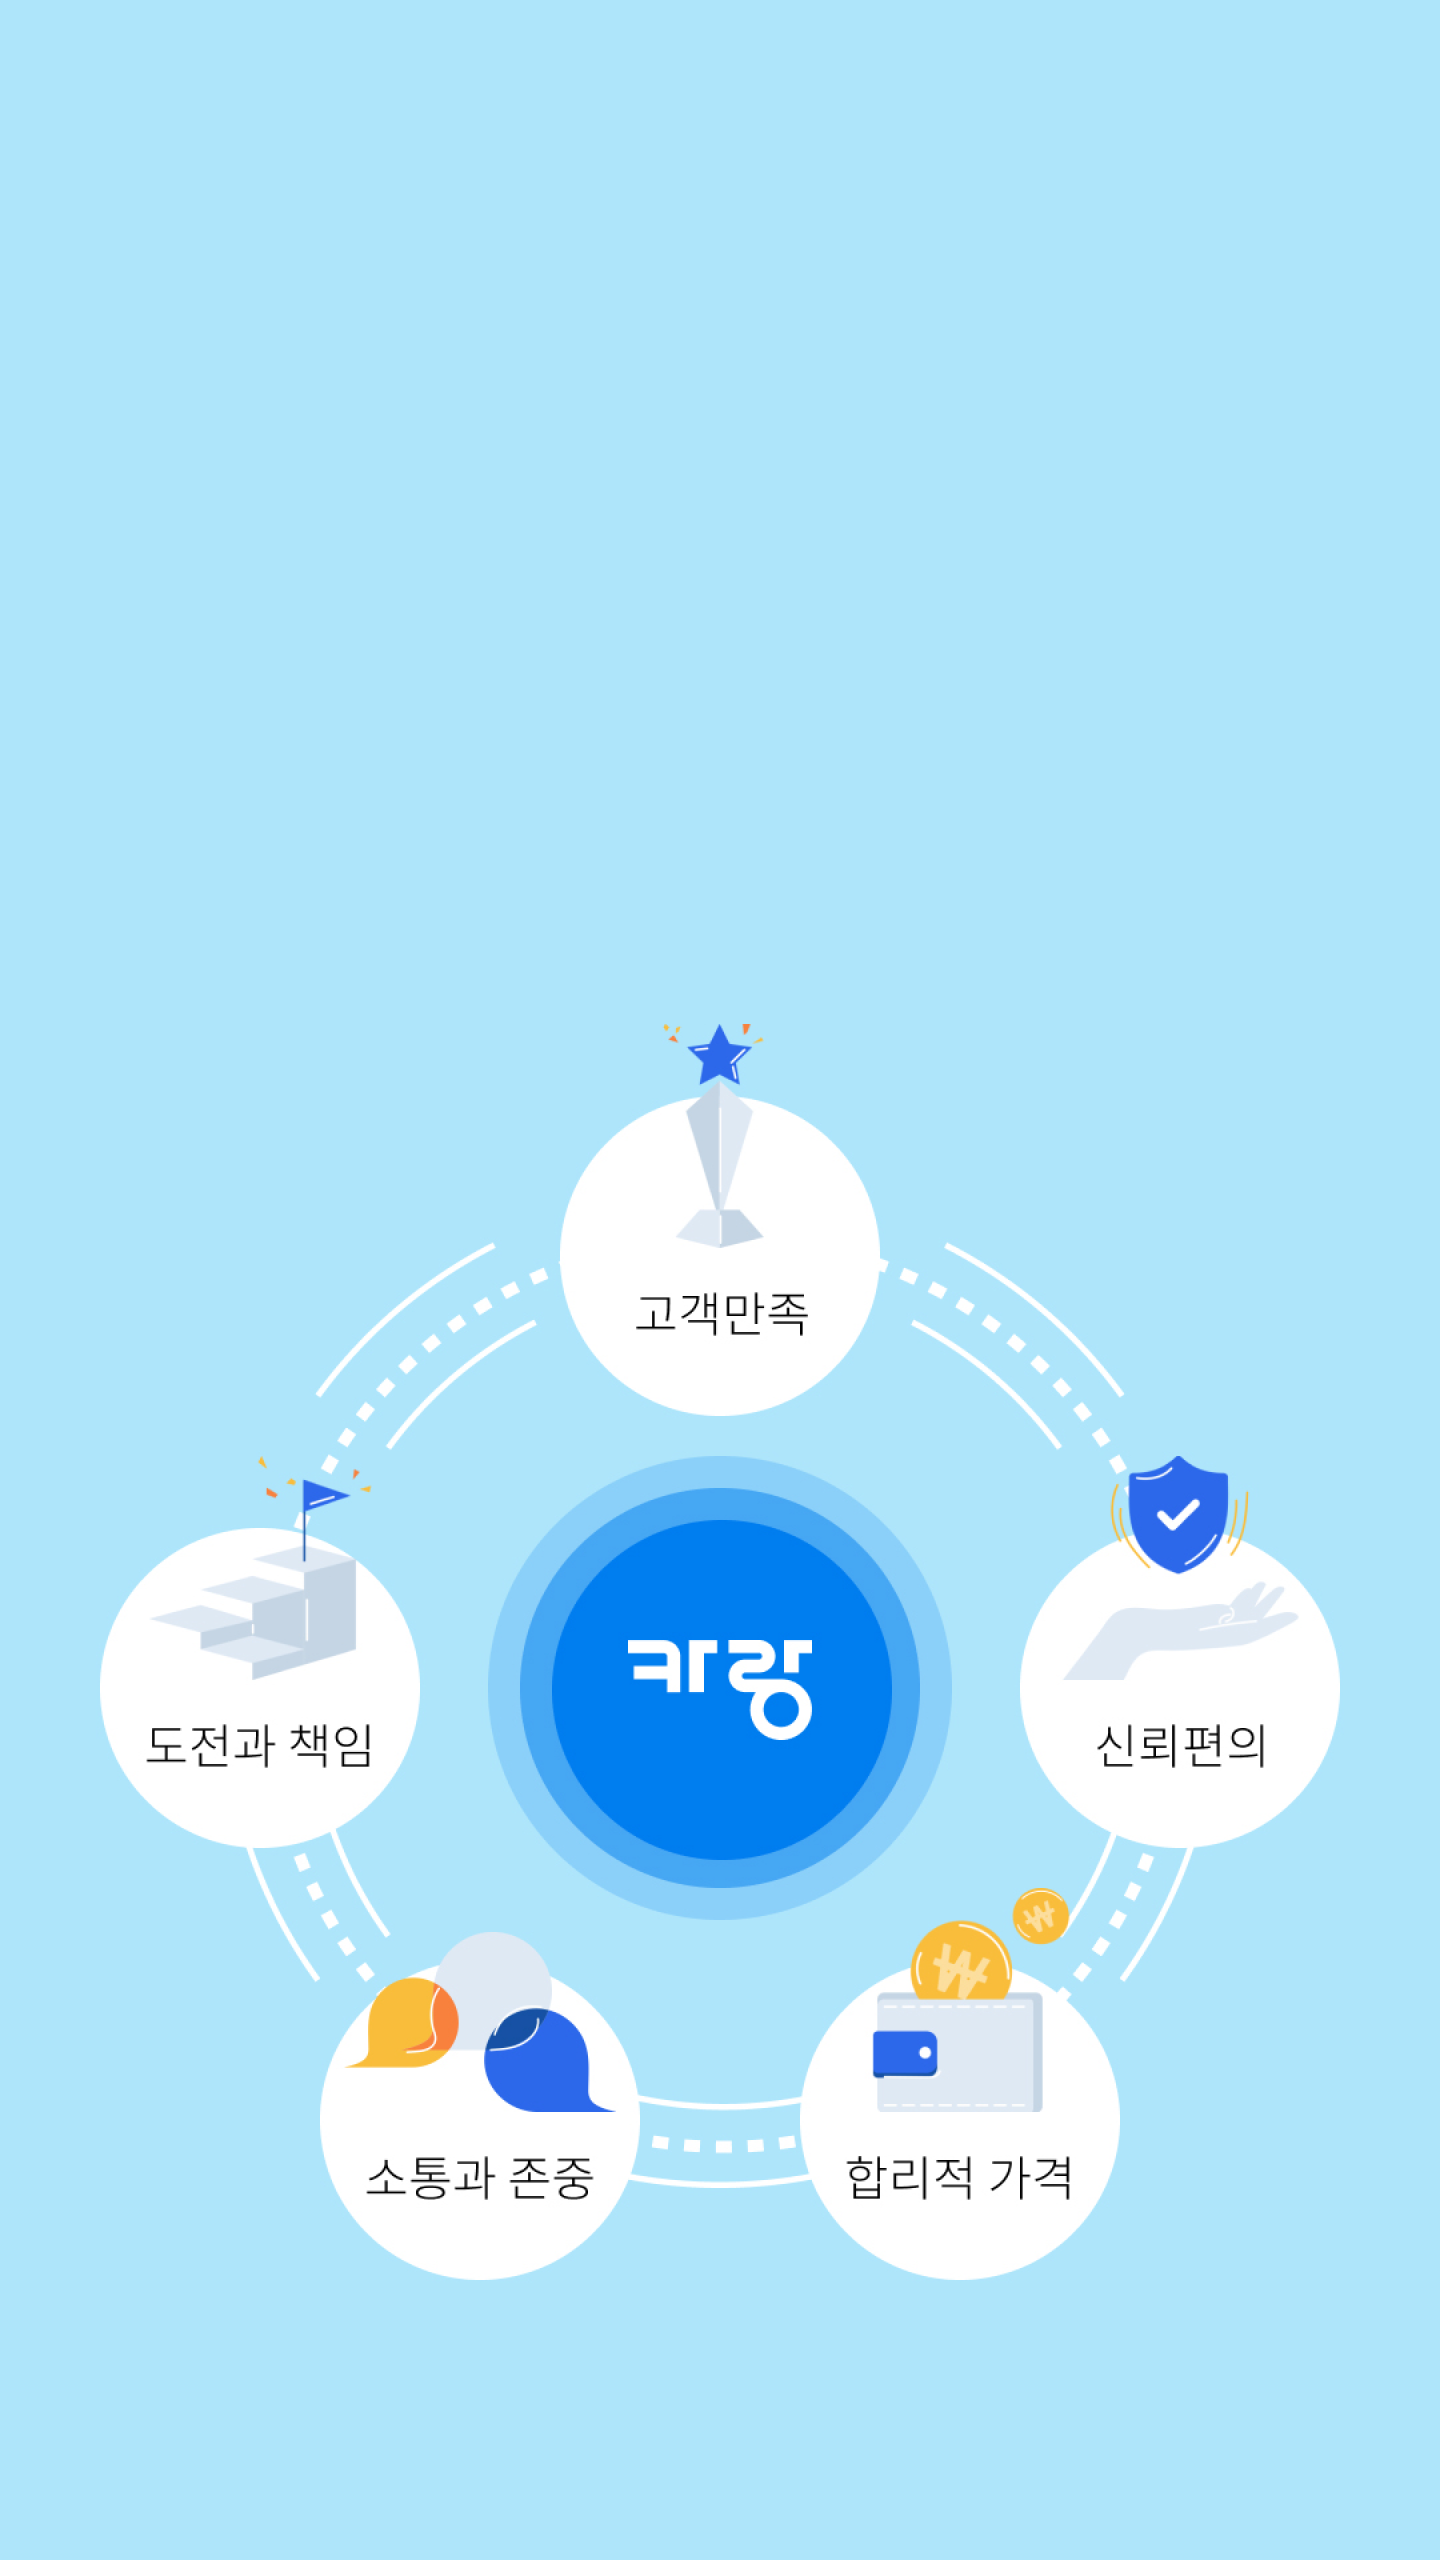
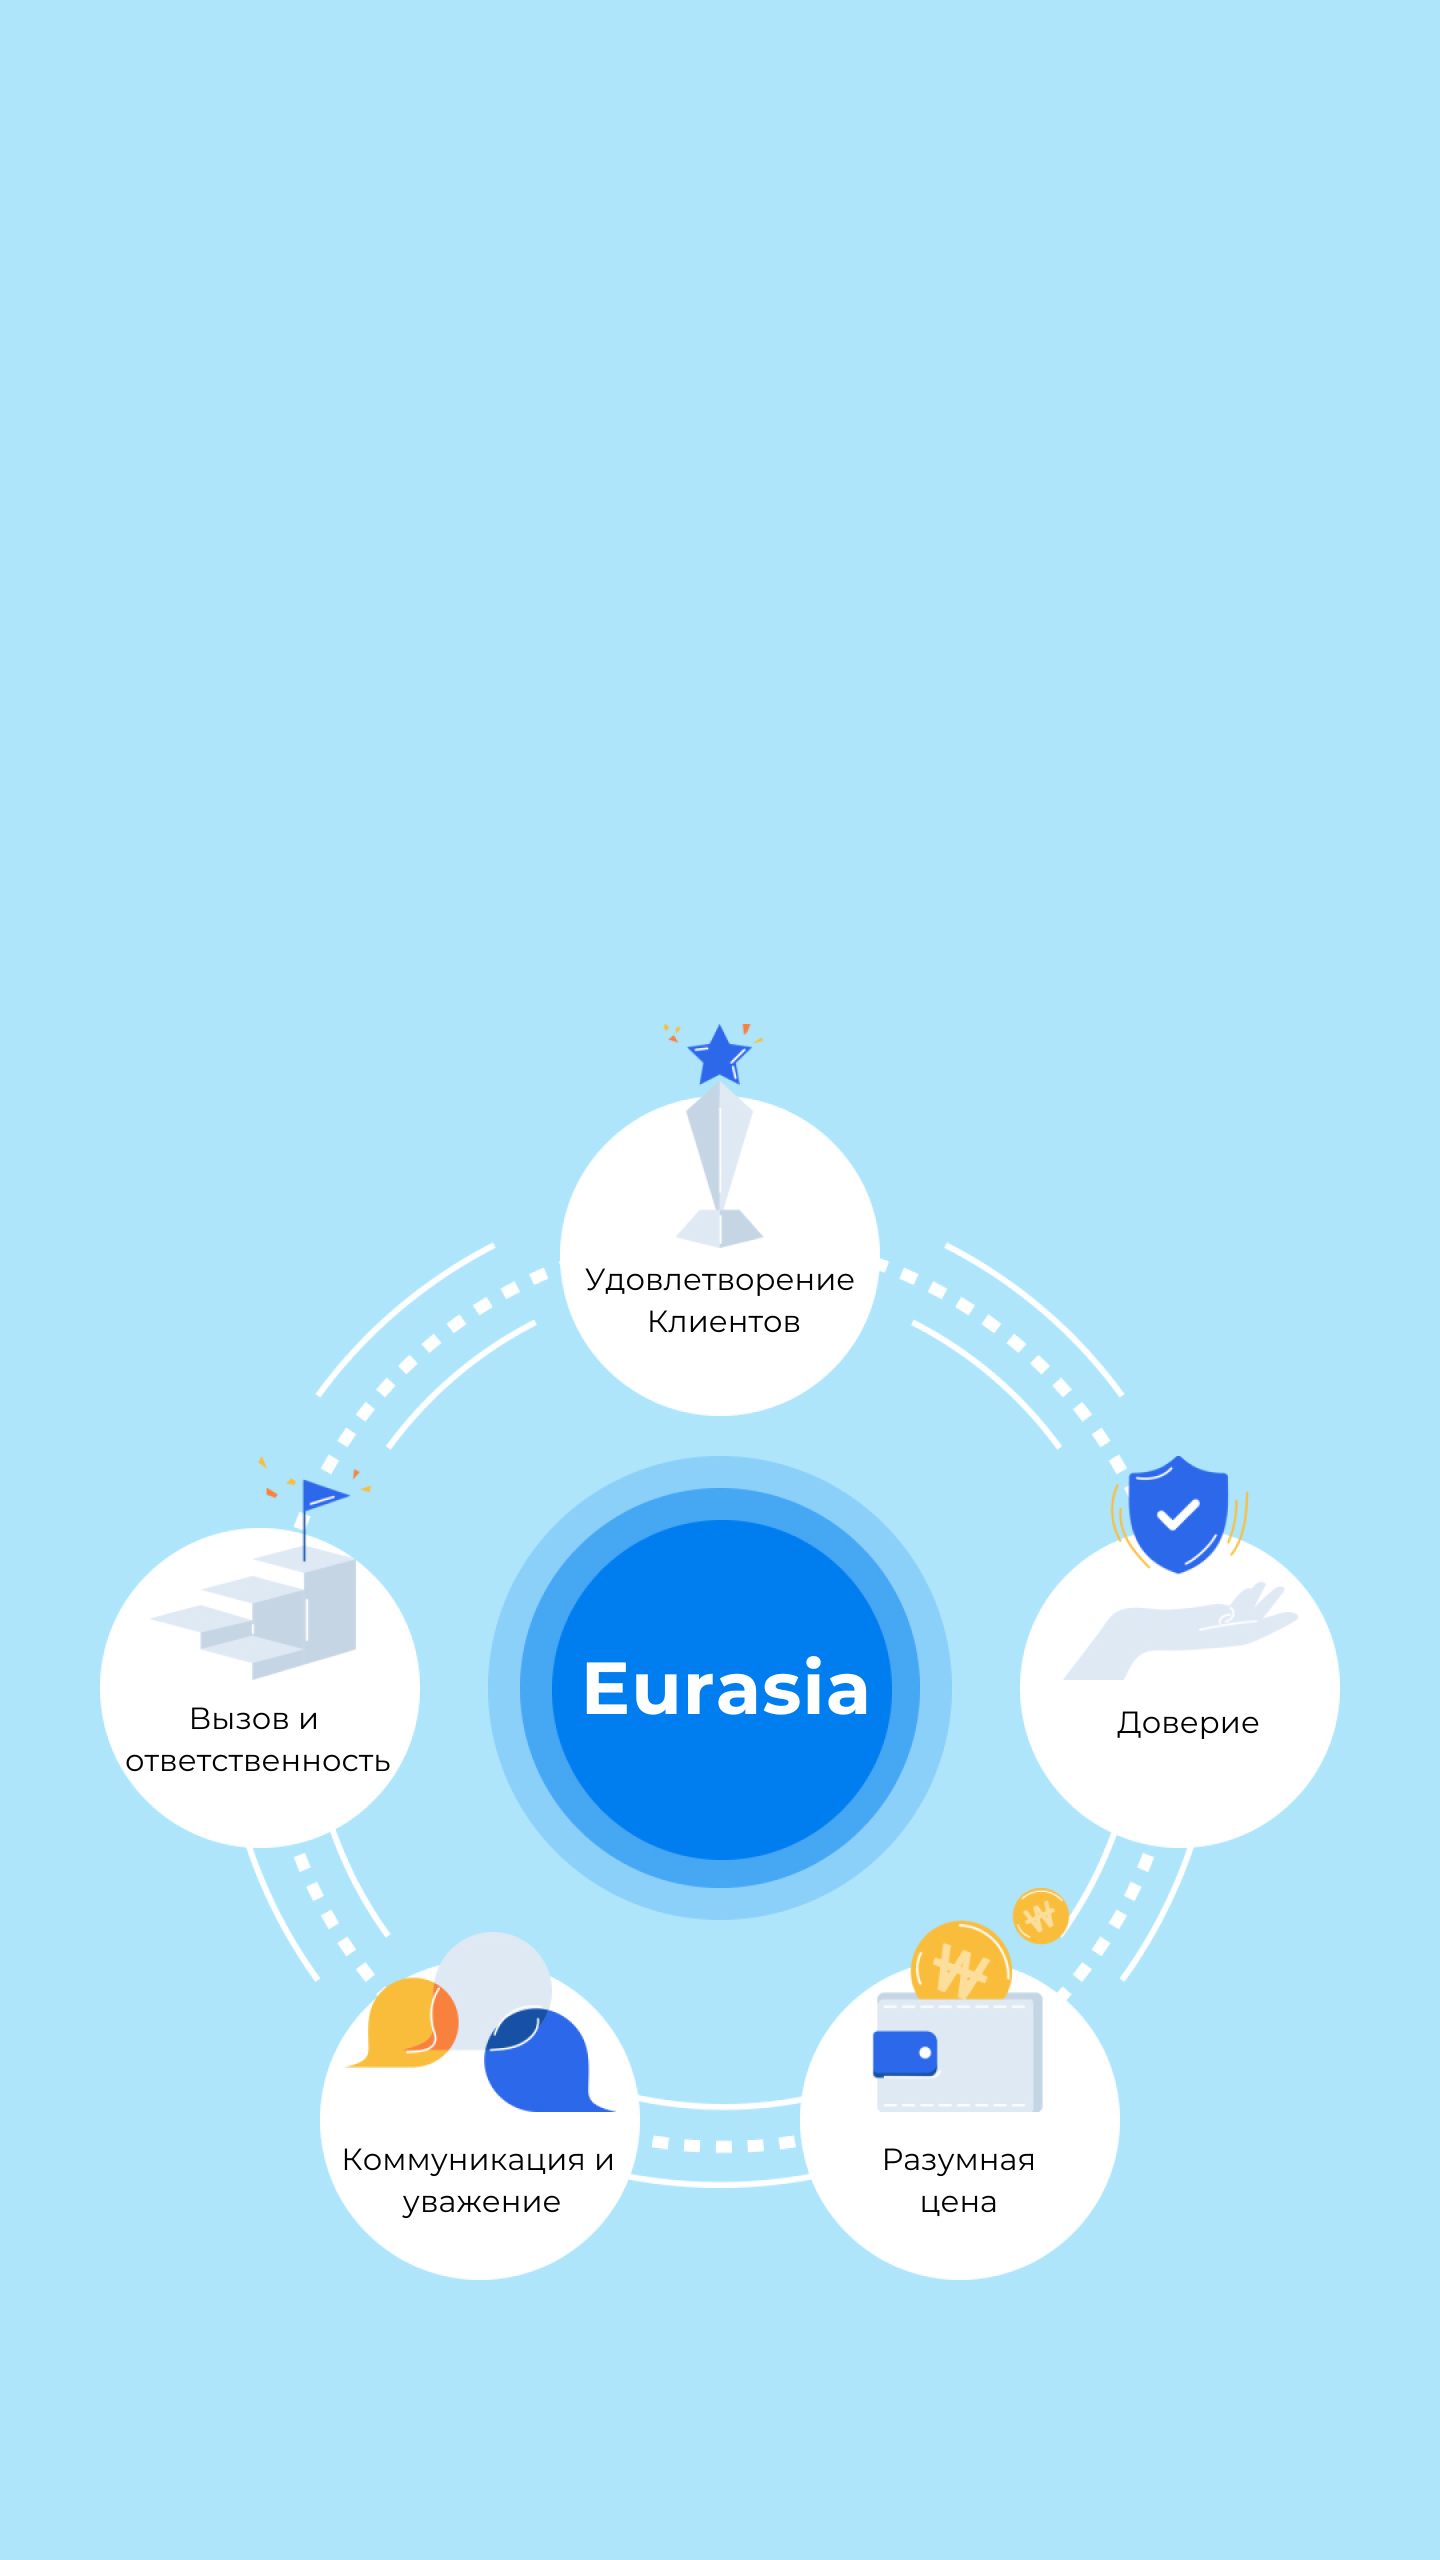
adapt_3/3

diff --git a/static/home.html b/static/home.html
@@ -13,16 +13,16 @@
     <div class="container">
         <div class="head">
           <div class="head_img">
-            <a href="http://91.147.92.210:1515/static/index.html">
+            <a href="http://91.147.92.210:1515/">
               <img src="../static/images/main_logo.png">
             </a>
           </div>
           <div class="nav-container">
               <div class="b1">
-                <a href="#section_1">Профиль компании</a>
+                <a href="" onclick="scrollToElement('section_1')">Профиль компании</a>
               </div> 
               <div class="b2"> 
-                <a href="#section_2">Услуги</a>
+                <a href="" onclick="scrollToElement('section_2'); return false">Услуги</a>
               </div> 
               <div class="b3">
                 <a href="https://www.carsuri.co.kr/contact?tab=runoil" target="_blank">Запрос на партнерство</a>
@@ -37,8 +37,8 @@
             <span></span>
           </label>
           <ul class="menu__box">
-              <li><a class="menu__item" target="_blank" href="#section_1">Профиль компании</a></li>
-              <li><a class="menu__item" target="_blank" href="#section_2">Услуги</a></li>
+              <li><a class="menu__item" href="" onclick="scrollToElement('section_1')">Профиль компании</a></li>
+              <li><a class="menu__item" href="" onclick="scrollToElement('section_2')">Услуги</a></li>
               <li><a class="menu__item" target="_blank" href="https://www.carsuri.co.kr/contact?tab=runoil">Запрос на партнерство</a></li>  
           </ul>
         </div>
@@ -59,7 +59,7 @@
               Начало нового управления автомобилем
               <h2 class="zhir">
                 <b>
-                  Управление транспортными средствами &lsquo;<b>Carang</b>&rsquo; в моих руках
+                  Управление транспортными средствами &lsquo;<b>Eurasia</b>&rsquo; в моих руках
                 </b>
               </h2>
             </h2>
@@ -84,7 +84,7 @@
           Дорога офиса в Сеуле
         </p>
         <div class="map">
-          <iframe src="https://www.google.com/maps/embed?pb=!1m18!1m12!1m3!1d2504.666689205991!2d71.39915247779213!3d51.11460957172667!2m3!1f0!2f0!3f0!3m2!1i1024!2i768!4f13.1!3m3!1m2!1s0x4245857b43be34df%3A0xbce83846dc96ed9b!2z0JbQmiBTcG9ydCBDaXR5!5e0!3m2!1skk!2skz!4v1711406630745!5m2!1skk!2skz" width="600" height="450" style="border:0;" allowfullscreen="" loading="lazy" referrerpolicy="no-referrer-when-downgrade"></iframe>
+          <iframe src="https://www.google.com/maps/embed?pb=!1m18!1m12!1m3!1d1583.0648583231814!2d126.88549286382586!3d37.48126519669036!2m3!1f0!2f0!3f0!3m2!1i1024!2i768!4f13.1!3m3!1m2!1s0x357b7b40fa00dc87%3A0x483c24717ccaec7d!2z7JeQ7L2U7IaM7ZSE7Yq4!5e0!3m2!1sru!2sus!4v1712516086940!5m2!1sru!2sus" width="600" height="450" style="border:0;" allowfullscreen="" loading="lazy" referrerpolicy="no-referrer-when-downgrade"></iframe>
         </div>
         </div>
 
@@ -267,7 +267,7 @@
             Номер бизнеса: 242-86-00160 │ Регистрационный номер торговой деятельности: № 2021-Инчхон, Ёнсугу-2269
           </p>
           <p>
-            Авторское право ⓒ 2020 carang. Все права защищены.
+            Авторское право ⓒ 2020 Eurasia. Все права защищены.
           </p>
         </div>
       </div>
@@ -275,5 +275,13 @@
 
   </footer>
 </body>
-
+<script>
+  function scrollToElement(elementId) {
+    var element = document.getElementById(elementId);
+    if (element) {
+      // Smooth scroll to the element
+      element.scrollIntoView({ behavior: 'smooth', block: 'start' });
+    }
+  }
+  </script>
 </html>

diff --git a/static/index.html b/static/index.html
@@ -13,16 +13,16 @@
     <div class="container">
       <div class="head">
         <div class="head_img">
-          <a href="http://91.147.92.210:1515/static/index.html">
+          <a href="http://91.147.92.210:1515/">
             <img src="../static/images/main_logo.png">
           </a>
         </div>
         <div class="nav-container">
           <div class="b1">
-            <a href="home.html">Профиль компании</a>
+            <a href="http://91.147.92.210:1515/intro">Профиль компании</a>
           </div> 
           <div class="b2"> 
-            <a href="home.html#section_2">Услуги</a>
+            <a href="http://91.147.92.210:1515/intro" onclick="scrollToElement('section_2')">Услуги</a>
           </div> 
           <div class="b3">
             <a href="https://www.carsuri.co.kr/contact?tab=runoil" target="_blank">Запрос на партнерство</a>
@@ -37,8 +37,8 @@
             <span></span>
         </label>
         <ul class="menu__box">
-            <li><a class="menu__item" target="_blank" href="home.html">Профиль компании</a></li>
-            <li><a class="menu__item" target="_blank" href="home.html#section_2">Услуги</a></li>
+            <li><a class="menu__item" href="http://91.147.92.210:1515/intro">Профиль компании</a></li>
+            <li><a class="menu__item"  href="http://91.147.92.210:1515/intro">Услуги</a></li>
             <li><a class="menu__item" target="_blank" href="https://www.carsuri.co.kr/contact?tab=runoil">Запрос на партнерство</a></li>  
         </ul>
       </div>
@@ -207,7 +207,7 @@
       
       <div class="slider">
         <div class="slider_container">
-          <div class="slider_title">Сервис Carang</div>
+          <div class="slider_title">Сервис Eurasia</div>
           <div class="slider_element_container">
             <div class="slider_element slider_element1">
               <div class="element_img">
@@ -354,7 +354,7 @@
               </div>
 
               <div class="block_title white_title blue_block_title">
-                Carang - платформа автомобильного афтермаркета, открывающая новую культуру обслуживания.
+                Eurasia - платформа автомобильного афтермаркета, открывающая новую культуру обслуживания.
               </div>
             </div>
           </div>
@@ -438,11 +438,21 @@
               Номер бизнеса: 242-86-00160 │ Регистрационный номер торговой деятельности: № 2021-Инчхон, Ёнсугу-2269
             </p>
             <p>
-              Авторское право ⓒ 2020 carang. Все права защищены.
+              Авторское право ⓒ 2020 Eurasia. Все права защищены.
             </p>
           </div>
         </div>
     </div>
   </footer>
 </body>
+
+<script>
+  function scrollToElement(elementId) {
+    var element = document.getElementById(elementId);
+    if (element) {
+      // Smooth scroll to the element
+      element.scrollIntoView({ behavior: 'smooth', block: 'start' });
+    }
+  }
+  </script>
 </html>

diff --git a/static/css/styles.css b/static/css/styles.css
@@ -502,6 +502,13 @@ main {
 .ms img {
     display: block; /* чтобы изображение занимало всю ширину блока */
     max-width: 100%; /* максимальная ширина изображения равна ширине контейнера */
+    width: 100%;
+    height: auto; /* автоматическая высота для сохранения пропорций */
+}
+
+picture {
+    display: block; /* чтобы изображение занимало всю ширину блока */
+    max-width: 100%; /* максимальная ширина изображения равна ширине контейнера */
     height: auto; /* автоматическая высота для сохранения пропорций */
 }
 
@@ -1173,8 +1180,8 @@ footer {
 }
 
 .footer_logo {
-    width: 200px;
-    height: 24px;
+    /* width: 200px; */
+    height: 50px;
 }
 
 @media(max-width: 640px) {

diff --git a/main.go b/main.go
@@ -15,6 +15,7 @@ func main() {
 	mux.Handle("/static/", http.StripPrefix("/static", files))
 	fmt.Println("14")
 	mux.HandleFunc("/", Homepage)
+	mux.HandleFunc("/intro", Intro)
 	fmt.Println("15")
 	err := http.ListenAndServe(":1515", mux)
 	if err != nil {
@@ -33,6 +34,20 @@ func Homepage(w http.ResponseWriter, r *http.Request) {
 		return
 	}
 	if r.URL.Path != "/" {
+		w.WriteHeader(http.StatusBadRequest)
+		w.Write([]byte(http.StatusText(http.StatusBadRequest)))
+		return
+	}
+	http.ServeFile(w, r, "./static/index.html")
+}
+func Intro(w http.ResponseWriter, r *http.Request) {
+	if r.Method != http.MethodGet {
+
+		w.WriteHeader(http.StatusBadRequest)
+		w.Write([]byte(http.StatusText(http.StatusBadRequest)))
+		return
+	}
+	if r.URL.Path != "/intro" {
 		w.WriteHeader(http.StatusBadRequest)
 		w.Write([]byte(http.StatusText(http.StatusBadRequest)))
 		return
